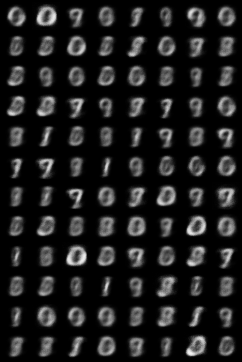
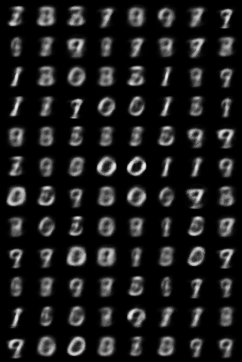
visualizations for beta/non-beta VAEs now use t-SNE

diff --git a/beta-visualization/train.py b/beta-visualization/train.py
@@ -5,12 +5,13 @@ from torch.utils.data import DataLoader
 from torchvision import transforms
 from torchvision.datasets import MNIST
 from torchvision.utils import save_image
+from sklearn.manifold import TSNE
 
 from model import VAE
 from visualize import *
 
 # hyperparameters
-num_epochs = 100
+num_epochs = 30
 batch_size = 128
 lr = 1e-3
 beta = 4
@@ -23,8 +24,6 @@ def KL(mu, log_var):
 # get images from MNIST database
 dataset = MNIST('../data', transform=transforms.ToTensor(), download=True)
 dataloader = DataLoader(dataset, batch_size=batch_size, shuffle=True)
-
-# visloader = DataLoader(dataset, batch_size=len(dataset))
 visloader = DataLoader(dataset, batch_size=1000)
 
 # create vae and its optimizer
@@ -36,6 +35,7 @@ beta_vae = VAE()
 beta_vae_optimizer = optim.Adam(beta_vae.parameters(), lr=lr)
 
 # start training
+print('Training...', end='', flush=True)
 for epoch in range(num_epochs):
 
     # minibatch optimization with Adam
@@ -60,6 +60,16 @@ for epoch in range(num_epochs):
         beta_vae_loss.backward()
         beta_vae_optimizer.step()
 
+    # plot loss after every epoch
+    update_viz(epoch, vae_loss.item(), beta_vae_loss.item())
+
+    # plot variances of each latent variable after every epoch
+    with torch.no_grad():
+        _, _, log_var1 = vae(img)
+        _, _, log_var2 = beta_vae(img)
+        log_vars = torch.t(torch.stack((torch.mean(log_var1, dim=0), torch.mean(log_var2, dim=0))))
+        bar(log_vars.numpy())
+
     # save images periodically
     if epoch % 10 == 0:
         pic = out1.data.view(out1.size(0), 1, 28, 28)
@@ -68,19 +78,19 @@ for epoch in range(num_epochs):
         pic = out2.data.view(out2.size(0), 1, 28, 28)
         save_image(pic, './img/ß_vae_' + str(epoch) + '_epochs.png')
 
-    with torch.no_grad():
-        for img, labels in visloader:
-            img = img.view(img.size(0), -1)
+print('DONE')
 
-            scatter(vae.encode(img).numpy()[:,:3], labels.numpy())
-            beta_scatter(beta_vae.encode(img).numpy()[:,:3], labels.numpy())
+print('Running t-SNE...', end='', flush=True)
+with torch.no_grad():
+    tsne = TSNE(n_components=2, random_state=0)
 
-            _, _, log_var1 = vae(img)
-            _, _, log_var2 = beta_vae(img)
-            log_vars = torch.t(torch.stack((torch.mean(log_var1, dim=0), torch.mean(log_var2, dim=0))))
-            bar(log_vars.numpy())
+    for img, labels in visloader:
+        img = img.view(img.size(0), -1)
 
-            break
+        raw_coords = tsne.fit_transform(img)
+        vae_coords = tsne.fit_transform(vae.encode(img).numpy())
+        beta_vae_coords = tsne.fit_transform(beta_vae.encode(img).numpy())
+        beta_scatter(raw_coords, vae_coords, beta_vae_coords, labels)
 
-    # plot loss
-    update_viz(epoch, vae_loss.item(), beta_vae_loss.item())
+        break
+print('DONE')

diff --git a/beta-visualization/visualize.py b/beta-visualization/visualize.py
@@ -41,29 +41,38 @@ colors = np.array([[255, 0, 0],
                    [100, 0, 255],
                    [255, 0, 255]])
 
-def scatter(coords, labels):
+def beta_scatter(raw_coords, vae_coords, beta_vae_coords, labels):
+
     viz.scatter(
-        X=coords,
-        Y=labels + 1,
-        win='VAE latent space',
+        X=raw_coords,
+        Y=labels+1,
+        win='latent raw',
         opts=dict(
-            # legend=(labels - 1).tolist(),
-            title='Distribution of Latent Variables in VAE',
-            markercolor=colors,
-            markersize=4
+            title='Raw Observations',
+            markersize=4,
+            markercolor=colors
         )
     )
 
-def beta_scatter(coords, labels):
     viz.scatter(
-        X=coords,
-        Y=labels + 1,
-        win='ß-VAE latent space',
+        X=vae_coords,
+        Y=labels+1,
+        win='latent VAE',
         opts=dict(
-            # legend=(labels - 1).tolist(),
-            title='Distribution of Latent Variables in ß-VAE',
-            markercolor=colors,
-            markersize=4
+            title='Latent VAE Observations',
+            markersize=4,
+            markercolor=colors
+        )
+    )
+
+    viz.scatter(
+        X=beta_vae_coords,
+        Y=labels+1,
+        win='latent ß-VAE',
+        opts=dict(
+            title='Latent ß-VAE Observations',
+            markersize=4,
+            markercolor=colors
         )
     )
 

diff --git a/DAE/train.py b/DAE/train.py
@@ -31,6 +31,8 @@ for epoch in range(num_epochs):
 
         # change the images to be 1D
         img = img.view(img.size(0), -1)
+        print(img.shape)
+        quit()
 
         # get output from network
         out = dae(img)
